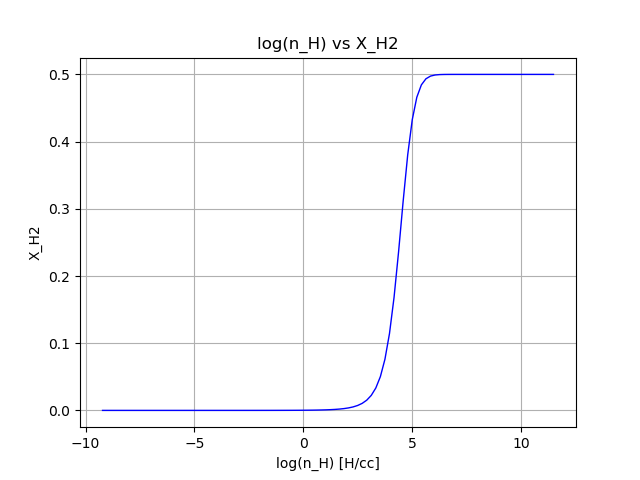
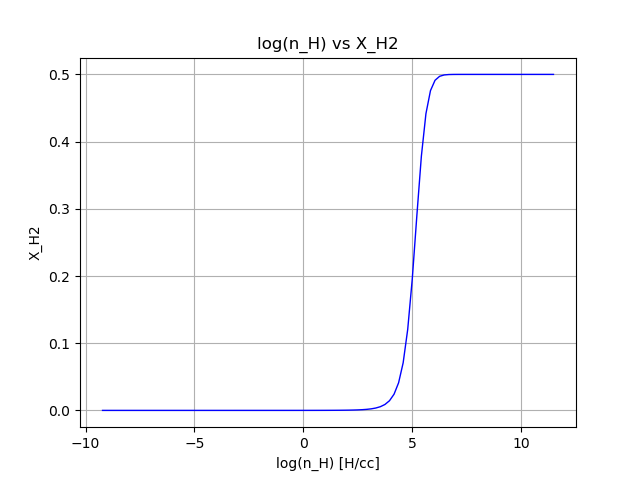
added loops for n_H_mean, mach_no, and Z
added loops for n_H_mean, mach_no, and Z, also tried to plot these changes, but not so successful, hence the change in the image files. Also trying to add the integration part, and adding classes for better code handling.

Changed region(s): [[0.5, 0.1562, 0.6875, 0.875]]

diff --git a/h2_density.py b/h2_density.py
@@ -1,6 +1,6 @@
 import numpy as np
 import matplotlib.pyplot as plt
-from scipy.integrate import nquad
+from scipy.integrate import quad
 
 #function to generate the PDF
 def make_pdf(x, x_mean, s):
@@ -29,10 +29,9 @@ def calc_num_LW(tau):
     num_LW = rad_field_outside * np.exp(-tau)
     return num_LW
 
-def calc_X_H2(n_H, n_LW):
+def calc_X_H2(n_H, n_LW, Z):
     destruction_coeff = 1.7e-11
     creation_coeff = 2.5e-17    #cm3 s-1
-    Z = 1.0     #solar
     factor = (destruction_coeff * n_LW) / (creation_coeff * Z * n_H)
     X_H2 = 1 / (2 + factor)
     return X_H2
@@ -41,8 +40,9 @@ def calc_num_H2(n_H, X_H2):
     n_H2 = n_H * X_H2   #H2/cc
     return n_H2
 
-def calc_n_H_bar(n_H, pdf):
-    n_H_bar = n_H * pdf
+def calc_n_H_bar(n_H):
+    for i in range(1, 100):
+        n_H_bar = n_H * (1/np.sqrt(2*np.pi*(vel_disp**2))) * (np.exp(-0.5*(((np.log(n_H/n_H_mean) - 1)/vel_disp)**2)))
     return n_H_bar
 
 def calc_n_H2_bar(n_H, pdf, X_H2):
@@ -57,10 +57,10 @@ if __name__=='__main__':
     fig, ax = plt.subplots()
     m_p = 1.672621777e-24  # g
     T_mean = 10.    #K
-    mach_no = 5.
+    mach_no_arr = np.array([1., 5., 10., 15.])
+    Z_arr = np.array([0.001, 0.01, 0.1, 1])
+    n_H_mean_arr = np.array([1e-3, 1e-2, 1e-1, 1e1, 1e2, 1e3])
     n_H_range = 100
-    n_H_mean = 100    # [H] cm^-3
-    vel_disp = np.sqrt(np.log(1 + ((0.3 * mach_no)**2))) #vel_disp in pdf
     x_mean = 1
     pdf = np.zeros(100)
     x = np.zeros(100)
@@ -73,57 +73,69 @@ if __name__=='__main__':
     n_H2_bar = np.zeros(100)
     n_H2_bar = np.zeros(100)
     X_H2_bar = np.zeros(100)
+    z_ctr = 0
+    mach_ctr = 0
+    for z_ctr in range(len(Z_arr)-1):
+        Z = Z_arr[z_ctr]
+        for mach_ctr in range(len(mach_no_arr)-1):
+            mach_no = mach_no_arr[mach_ctr]
+            vel_disp = np.sqrt(np.log(1 + ((0.3 * mach_no)**2))) #vel_disp in pdf
+            for n_H_mean_ctr in range(len(n_H_mean_arr)-1):
+                n_H_mean = n_H_mean_arr[n_H_mean_ctr] # [H] cm^-3
+                for i in range(1, n_H_range):
+                    n_H = (np.logspace(-4, 5, 100) * i) # [H] cm^-3
+                    x = np.log(n_H/n_H_mean)
+                    pdf = make_pdf(x, x_mean, vel_disp)
+                    lambda_jeans_cm = calc_lambda_jeans(T_mean, n_H)
+                    tau = calc_optical_depth(n_H, lambda_jeans_cm)
+                    n_LW = calc_num_LW(tau)
+                    X_H2 = calc_X_H2(n_H, n_LW, Z)
+                    n_H2 = calc_num_H2(n_H, X_H2)
+                    #n_H_bar = quad(calc_n_H_bar, 0, 100, args=pdf, )
+                    #n_H2_bar = quad(calc_n_H2_bar, 0, 100, args=(pdf, X_H2, ))
+                    #X_H2_bar = calc_X_H2_bar(n_H_bar, n_H2_bar)
+                #plotting log(n) vs log(PDF)
+                plt.plot(x, np.log(pdf), lw=1, color='b')
+                plt.xlabel('log(n) [H/cc]')
+                plt.ylabel('log(PDF)')
+                plt.grid(b=True, which='both', axis='both')
+                #plt.legend()
+                plt.title('log(n) vs log(PDF)')
+                plt.savefig('XvslogPDF_fromcode.png'.format(i=i))
+                plt.clf()
+                #plotting log(n) vs PDF
+                plt.plot(x, pdf, lw=1, color='b')
+                plt.xlabel('log(n) [H/cc]')
+                plt.ylabel('PDF')
+                plt.grid(b=True, which='both', axis='both')
+                #plt.legend()
+                plt.title('log(n) vs PDF')
+                plt.savefig('XvsPDF_fromcode.png'.format(i=i))
+                plt.clf()
+                #plotting log of Jeans length in cm log(lambda_jeans_cm) vs log(n)
+                plt.plot(np.log(lambda_jeans_cm), x, lw=1, color='b')
+                plt.ylabel('log(n) [H/cc]')
+                plt.xlabel('log(lambda_Jeans) [cm]')
+                plt.grid(b=True, which='both', axis='both')
+                #plt.legend()
+                plt.title('log(lambda_Jeans) vs log(n)')
+                plt.savefig('log(lambda_Jeans)vsX_fromcode.png'.format(i=i))
+                plt.clf()
+                #plotting X_H2 vs log(n_H)
+                plt.plot(x, X_H2, lw=1, color='b')
+                plt.xlabel('log(n_H) [H/cc]')
+                plt.ylabel('X_H2')
+                plt.grid(b=True, which='both', axis='both')
+                #plt.legend()
+                plt.title('log(n_H) vs X_H2')
+                plt.savefig('log(n_H)vsX_H2.png'.format(i=i))
+                plt.clf()
 
-    for i in range(1, n_H_range):
-        n_H = (np.logspace(-4, 5, 100) * i) # [H] cm^-3
-        x = np.log(n_H/n_H_mean)
-        pdf = make_pdf(np.log(n_H/n_H_mean), x_mean, vel_disp)
-        lambda_jeans_cm = calc_lambda_jeans(T_mean, n_H)
-        tau = calc_optical_depth(n_H, lambda_jeans_cm)
-        n_LW = calc_num_LW(tau)
-        X_H2 = calc_X_H2(n_H, n_LW)
-        n_H2 = calc_num_H2(n_H, X_H2)
-    n_H_bar = nquad(calc_n_H_bar, 0, 100, args=pdf, )
-    n_H2_bar = nquad(calc_n_H2_bar, 0, 100, args=pdf, X_H2, )
-        #X_H2_bar = calc_X_H2_bar(n_H_bar, n_H2_bar)
-
-    #plotting n_H_bar vs X_H2_bar
-    plt.plot(n_H_bar, X_H2_bar, lw=1, color='b')
-    plt.xlabel('n_H_bar [H/cc]')
-    plt.ylabel('X_H2_bar')
-    plt.grid(b=True, which='both', axis='both')
-    plt.title('n_H_bar vs X_H2_bar')
-    plt.savefig('n_H_barvsX_H2_bar_fromcode.png'.format(i=i))
-    plt.clf()
-    """#plotting log(n) vs log(PDF)
-    plt.plot(x, np.log(pdf), lw=1, color='b')
-    plt.xlabel('log(n) [H/cc]')
-    plt.ylabel('log(PDF)')
-    plt.grid(b=True, which='both', axis='both')
-    plt.title('log(n) vs log(PDF)')
-    plt.savefig('XvslogPDF_fromcode.png'.format(i=i))
-    plt.clf()
-    #plotting log(n) vs PDF
-    plt.plot(x, pdf, lw=1, color='b')
-    plt.xlabel('log(n) [H/cc]')
-    plt.ylabel('PDF')
-    plt.grid(b=True, which='both', axis='both')
-    plt.title('log(n) vs PDF')
-    plt.savefig('XvsPDF_fromcode.png'.format(i=i))
-    plt.clf()
-    #plotting log of Jeans length in cm log(lambda_jeans_cm) vs log(n)
-    plt.plot(np.log(lambda_jeans_cm), x, lw=1, color='b')
-    plt.ylabel('log(n) [H/cc]')
-    plt.xlabel('log(lambda_Jeans) [cm]')
-    plt.grid(b=True, which='both', axis='both')
-    plt.title('log(lambda_Jeans) vs log(n)')
-    plt.savefig('log(lambda_Jeans)vsX_fromcode.png'.format(i=i))
-    plt.clf()
-    #plotting X_H2 vs log(n_H)
-    plt.plot(x, X_H2, lw=1, color='b')
-    plt.xlabel('log(n_H) [H/cc]')
-    plt.ylabel('X_H2')
-    plt.grid(b=True, which='both', axis='both')
-    plt.title('log(n_H) vs X_H2')
-    plt.savefig('log(n_H)vsX_H2.png'.format(i=i))
-    plt.clf()"""
+    '''    #plotting n_H_bar vs X_H2_bar
+        plt.plot(n_H_bar, X_H2_bar, lw=1, color='b')
+        plt.xlabel('n_H_bar [H/cc]')
+        plt.ylabel('X_H2_bar')
+        plt.grid(b=True, which='both', axis='both')
+        plt.title('n_H_bar vs X_H2_bar')
+        plt.savefig('n_H_barvsX_H2_bar_fromcode.png'.format(i=i))
+        plt.clf()'''

diff --git a/testing.py b/testing.py
@@ -1,18 +1,13 @@
 import numpy as np
 import matplotlib.pyplot as plt
-from scipy.stats import lognorm
+from scipy.integrate import quad
 
-def make_pdf(x, x_mean, s):
-    pdf = (1/np.sqrt(2*np.pi*(vel_disp**2))) * (np.exp(-0.5*(((x - x_mean)/vel_disp)**2)))
-    return pdf
+def f(x):
+    return x**2
 
-def calc_num_LW(tau):
-    a = 1.0
-    for i in range(10):
-        local_rad_field = a  #solar units
-    num_LW = local_rad_field * np.exp(-tau)
-    return num_LW
-
+if __name__=='__main__':
+    f = quad(f, 0, 1)
+    print (f)
 
 
 
